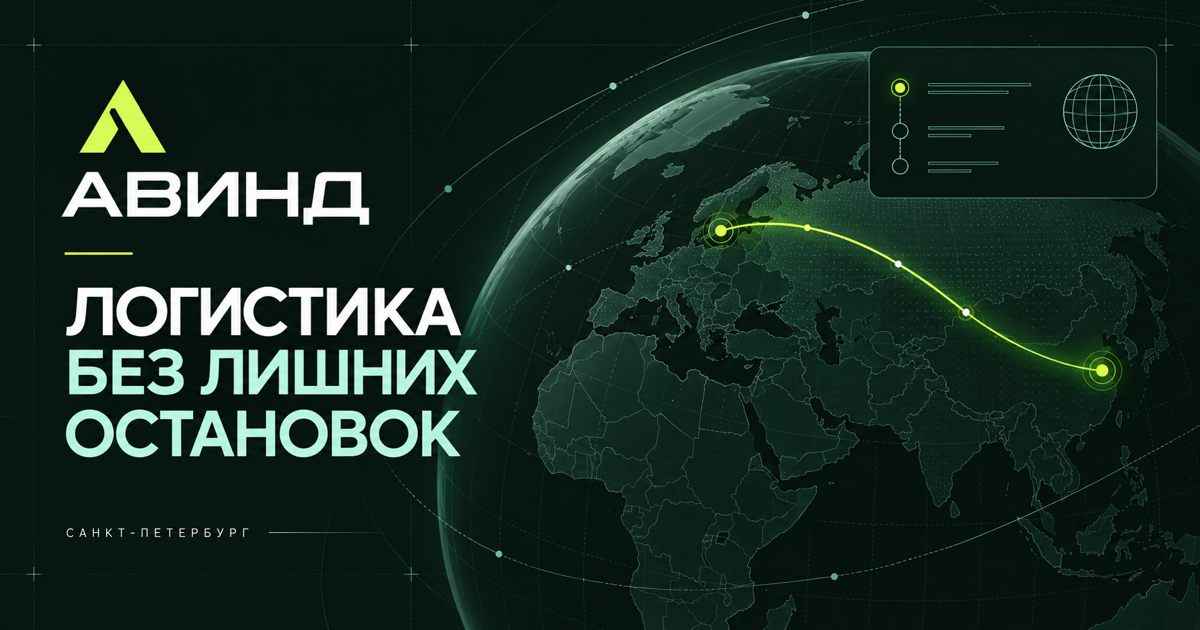
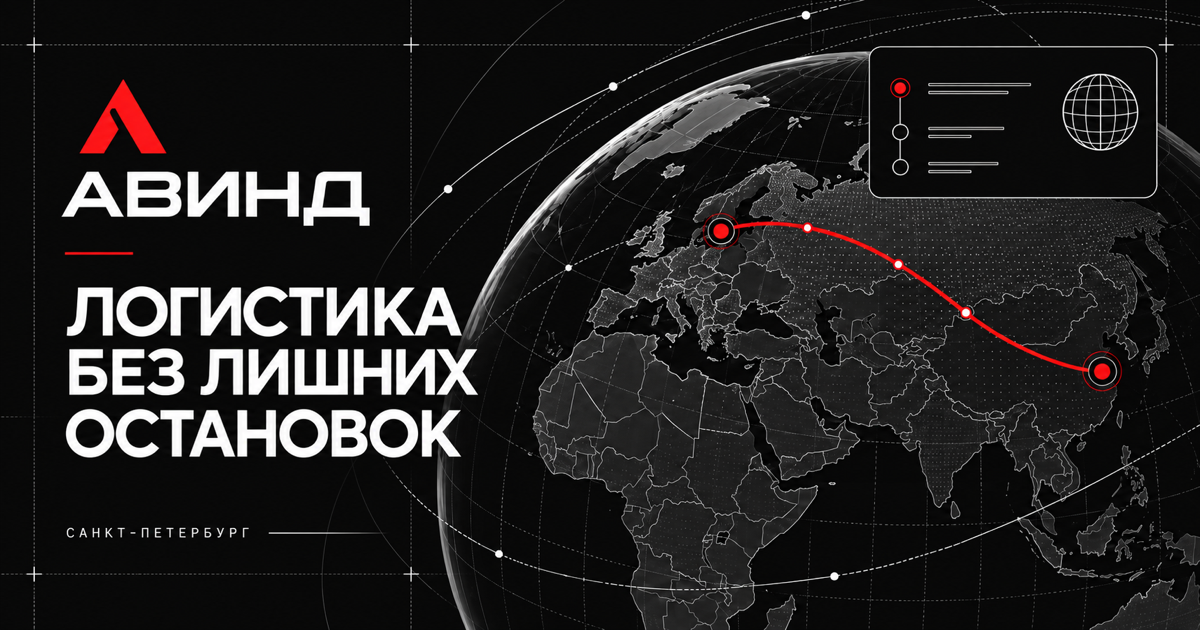
Add files via upload

diff --git a/styles.css b/styles.css
@@ -1,5 +1,24 @@
-:root{--ink:#0b1715;--ink-2:#10221f;--paper:#f1f0e9;--paper-2:#e4e3da;--acid:#caff3d;--mint:#a5e6d0;--line:rgba(11,23,21,.16);--white:#fff;--display:Impact,"Arial Narrow",sans-serif;--body:Inter,-apple-system,BlinkMacSystemFont,"Segoe UI",sans-serif}
+:root{--ink:#0a0a0a;--ink-2:#161616;--paper:#f7f7f5;--paper-2:#e7e7e3;--acid:#e11919;--mint:#ff5a52;--line:rgba(10,10,10,.18);--white:#fff;--display:Impact,"Arial Narrow",sans-serif;--body:Inter,-apple-system,BlinkMacSystemFont,"Segoe UI",sans-serif}
 *{box-sizing:border-box}html{scroll-behavior:smooth}body{margin:0;background:var(--paper);color:var(--ink);font-family:var(--body);overflow-x:hidden}body.dialog-open{overflow:hidden}a{color:inherit;text-decoration:none}button,input,select,textarea{font:inherit}.skip-link{position:fixed;left:1rem;top:-5rem;background:var(--acid);padding:.8rem 1rem;z-index:100}.skip-link:focus{top:1rem}.site-header{height:88px;padding:0 clamp(20px,4vw,64px);display:grid;grid-template-columns:1fr auto 1fr;align-items:center;position:absolute;inset:0 0 auto;z-index:20;color:white;border-bottom:1px solid rgba(255,255,255,.14)}.brand{display:grid;grid-template-columns:36px auto;grid-template-rows:auto auto;align-items:center;width:max-content}.brand-mark{grid-row:1/3;width:28px;height:34px;background:var(--acid);clip-path:polygon(50% 0,100% 100%,64% 100%,50% 67%,36% 100%,0 100%);font-size:0}.brand-name{font-weight:850;font-size:1.08rem;letter-spacing:.13em;line-height:1}.brand-place{font-size:.56rem;letter-spacing:.16em;text-transform:uppercase;opacity:.55;margin-top:5px}.desktop-nav{display:flex;gap:clamp(22px,3vw,52px);font-size:.78rem;text-transform:uppercase;letter-spacing:.11em}.desktop-nav a,.header-phone{transition:color .2s}.desktop-nav a:hover,.header-phone:hover{color:var(--acid)}.header-phone{justify-self:end;font-weight:650;font-size:.88rem}.menu-button,.mobile-nav{display:none}.hero{min-height:820px;height:min(930px,100svh);position:relative;background:var(--ink);color:white;padding:clamp(140px,17vh,200px) clamp(20px,4vw,64px) 84px;overflow:hidden;display:grid;grid-template-columns:1.05fr .95fr;gap:2rem;align-items:center}.hero:before{content:"";position:absolute;width:70vw;height:70vw;left:-36vw;top:-28vw;border:1px solid rgba(202,255,61,.12);border-radius:50%}.hero-copy{position:relative;z-index:2;max-width:790px}.eyebrow{display:flex;align-items:center;gap:10px;text-transform:uppercase;letter-spacing:.18em;font-size:.69rem;font-weight:750;margin:0 0 28px}.eyebrow span{width:30px;height:1px;background:var(--acid)}.eyebrow.dark span{background:var(--ink)}.hero h1,.section h2,.cta h2,.quote-dialog h2{font-family:var(--display);font-weight:900;text-transform:uppercase;letter-spacing:-.035em;line-height:.86;margin:0}.hero h1{font-size:clamp(4.4rem,8.3vw,9.2rem)}em{font-style:normal;color:var(--acid)}.hero-lead{font-size:clamp(1rem,1.4vw,1.22rem);line-height:1.55;color:rgba(255,255,255,.66);max-width:630px;margin:32px 0}.hero-actions{display:flex;gap:12px;flex-wrap:wrap}.button{border:0;min-height:56px;padding:0 25px;display:inline-flex;align-items:center;justify-content:center;gap:38px;text-transform:uppercase;letter-spacing:.08em;font-size:.72rem;font-weight:800;cursor:pointer;transition:transform .25s,background .25s,color .25s}.button:hover{transform:translateY(-3px)}.button-primary{background:var(--acid);color:var(--ink)}.button-primary:hover{background:white}.button-ghost{color:white;border:1px solid rgba(255,255,255,.3)}.button-ghost:hover{border-color:white}.button-dark{background:var(--ink);color:white;width:100%}.hero-facts{display:flex;list-style:none;padding:34px 0 0;margin:42px 0 0;border-top:1px solid rgba(255,255,255,.15);gap:clamp(25px,4vw,64px)}.hero-facts li{display:flex;flex-direction:column;gap:5px}.hero-facts strong{text-transform:uppercase;font-size:.88rem}.hero-facts span{font-size:.68rem;color:rgba(255,255,255,.48)}.route-visual{height:min(650px,66vw);min-height:480px;position:relative;border-left:1px solid rgba(255,255,255,.14);overflow:hidden}.visual-grid{position:absolute;inset:0;background-image:linear-gradient(rgba(255,255,255,.045) 1px,transparent 1px),linear-gradient(90deg,rgba(255,255,255,.045) 1px,transparent 1px);background-size:64px 64px;mask-image:linear-gradient(to bottom,transparent,black 15%,black 85%,transparent)}.orbit{position:absolute;border:1px solid rgba(165,230,208,.19);border-radius:50%}.orbit-one{width:520px;height:520px;top:7%;left:13%;animation:spin 30s linear infinite}.orbit-one:after{content:"";width:9px;height:9px;background:var(--acid);border-radius:50%;position:absolute;top:17%;left:8%;box-shadow:0 0 24px var(--acid)}.orbit-two{width:330px;height:330px;top:24%;left:31%;border-style:dashed;animation:spin 24s linear infinite reverse}.route-line{position:absolute;width:66%;height:48%;top:26%;left:17%;border-top:2px solid var(--acid);border-radius:50%;transform:rotate(-12deg)}.route-line:after{content:"";position:absolute;top:-5px;left:0;width:9px;height:9px;background:var(--acid);border-radius:50%;animation:travel 5s ease-in-out infinite}.location{position:absolute;display:grid;grid-template-columns:14px auto;column-gap:10px;align-items:center}.location span{width:8px;height:8px;border:2px solid var(--acid);border-radius:50%;box-shadow:0 0 0 7px rgba(202,255,61,.09)}.location b{font-size:.74rem;text-transform:uppercase;letter-spacing:.08em}.location small{grid-column:2;color:rgba(255,255,255,.42);font-size:.62rem;margin-top:4px}.location-a{left:11%;top:26%}.location-b{right:3%;top:59%}.cargo-card{position:absolute;background:rgba(16,34,31,.84);backdrop-filter:blur(18px);border:1px solid rgba(255,255,255,.15);box-shadow:0 25px 80px rgba(0,0,0,.25)}.cargo-main{width:260px;left:26%;top:43%;padding:24px}.cargo-label{font-size:.61rem;color:var(--acid);text-transform:uppercase;letter-spacing:.12em}.cargo-main strong{display:block;font-size:1.4rem;margin:14px 0 22px}.cargo-progress{height:3px;background:rgba(255,255,255,.12)}.cargo-progress i{display:block;width:62%;height:100%;background:var(--acid)}.cargo-meta{display:flex;justify-content:space-between;margin-top:9px;color:rgba(255,255,255,.52);font-size:.65rem}.cargo-meta b{color:white}.cargo-status{right:3%;top:34%;padding:13px 16px;display:flex;align-items:center;gap:12px}.cargo-status>i{width:8px;height:8px;background:var(--acid);border-radius:50%;box-shadow:0 0 0 6px rgba(202,255,61,.09);animation:pulse 2s infinite}.cargo-status span{display:flex;flex-direction:column}.cargo-status small{font-size:.55rem;color:rgba(255,255,255,.45)}.cargo-status b{font-size:.66rem;margin-top:2px}.visual-caption{position:absolute;right:3%;bottom:4%;font-size:.56rem;letter-spacing:.13em;color:rgba(255,255,255,.3)}.hero-scroll{position:absolute;left:clamp(20px,4vw,64px);bottom:24px;font-size:.61rem;text-transform:uppercase;letter-spacing:.14em;color:rgba(255,255,255,.45);display:flex;align-items:center;gap:10px}.hero-scroll span{display:inline-block;width:4px;height:4px;background:var(--acid);border-radius:50%}.ticker{height:72px;overflow:hidden;background:var(--acid);display:flex;align-items:center}.ticker>div{white-space:nowrap;display:flex;align-items:center;gap:28px;animation:ticker 28s linear infinite}.ticker span{text-transform:uppercase;font-family:var(--display);font-size:1.2rem;letter-spacing:.04em}.ticker i{font-style:normal;font-size:.7rem}.section{padding:clamp(90px,11vw,160px) clamp(20px,4vw,64px)}.section-heading{display:grid;grid-template-columns:1fr 1.5fr 1fr;gap:4vw;align-items:end;margin-bottom:70px}.section h2{font-size:clamp(3.3rem,6vw,7.1rem)}.section-heading>p:last-child,.solutions-intro>p:last-child{color:rgba(11,23,21,.62);line-height:1.65;max-width:420px;margin:0}.service-grid{display:grid;grid-template-columns:repeat(3,1fr);border-top:1px solid var(--line);border-left:1px solid var(--line)}.service-card{min-height:390px;padding:26px;display:flex;flex-direction:column;justify-content:space-between;border-right:1px solid var(--line);border-bottom:1px solid var(--line);position:relative;transition:background .3s,color .3s,transform .3s;overflow:hidden}.service-card:hover{background:var(--ink);color:white;transform:translateY(-4px);z-index:2}.service-number{font-size:.63rem;opacity:.5}.service-symbol{position:absolute;inset:70px 26px auto auto;width:130px;height:94px;opacity:.5;transition:opacity .3s,transform .3s}.service-card:hover .service-symbol{opacity:1;transform:translate(-8px,-4px)}.symbol-road{border-bottom:2px solid currentColor}.symbol-road i{position:absolute;width:12px;height:12px;border:2px solid currentColor;border-radius:50%;bottom:-7px}.symbol-road i:first-child{left:12px}.symbol-road i:last-child{right:12px}.symbol-road:before{content:"";position:absolute;inset:28px 15px 0;border:2px solid currentColor;border-bottom:0;transform:skew(-12deg)}.symbol-sea{border-bottom:8px double currentColor}.symbol-sea:before{content:"";position:absolute;width:90px;height:45px;border:2px solid currentColor;border-top:0;bottom:17px;left:18px;transform:skew(-18deg)}.symbol-sea i{position:absolute;bottom:0;width:5px;height:5px;background:currentColor;border-radius:50%}.symbol-sea i:nth-child(1){left:5px}.symbol-sea i:nth-child(2){left:60px}.symbol-sea i:nth-child(3){right:5px}.symbol-air{font-size:6rem;line-height:1;text-align:center}.symbol-air:before,.symbol-air:after{content:"";position:absolute;width:42px;height:1px;background:currentColor;top:46px}.symbol-air:before{left:0}.symbol-air:after{right:0}.symbol-rail{border:2px solid currentColor;border-radius:50% 50% 8px 8px;width:80px;right:42px}.symbol-rail:before{content:"";position:absolute;inset:28px 16px;border:1px solid currentColor}.symbol-rail i{position:absolute;width:10px;height:10px;background:currentColor;border-radius:50%;bottom:10px}.symbol-rail i:nth-child(1){left:12px}.symbol-rail i:nth-child(2){left:33px}.symbol-rail i:nth-child(3){right:12px}.symbol-box i{display:block;width:86px;height:72px;border:2px solid currentColor;margin:auto;transform:skewY(-10deg)}.symbol-box i:after{content:"";display:block;width:1px;height:100%;background:currentColor;margin:auto}.symbol-terminal i:first-child{display:block;width:110px;height:65px;border:2px solid currentColor;margin-top:20px}.symbol-terminal i:last-child{position:absolute;width:2px;height:94px;background:currentColor;right:8px;top:0}.service-card h3{font-size:1.4rem;margin:0 0 13px}.service-card p{font-size:.83rem;line-height:1.55;opacity:.56;max-width:320px;margin:0;padding-right:35px}.service-card button,.solution-item button{position:absolute;right:24px;bottom:24px;border:0;background:transparent;color:inherit;font-size:1.4rem;cursor:pointer;transition:transform .2s}.service-card button:hover,.solution-item button:hover{transform:rotate(45deg)}.solutions{background:var(--ink);color:white;display:grid;grid-template-columns:.8fr 1.2fr;gap:8vw}.solutions-intro{position:sticky;top:130px;height:max-content}.solutions-intro>p:last-child{color:rgba(255,255,255,.5);margin-top:32px}.solution-list{border-top:1px solid rgba(255,255,255,.16)}.solution-item{position:relative;display:grid;grid-template-columns:55px 1fr;gap:15px;padding:48px 48px 48px 0;border-bottom:1px solid rgba(255,255,255,.16)}.solution-item>span{font-size:.63rem;color:var(--acid)}.solution-item h3{font-size:clamp(1.45rem,2.5vw,2.6rem);margin:0 0 15px}.solution-item p{font-size:.9rem;line-height:1.65;color:rgba(255,255,255,.55);margin:0 0 22px;max-width:680px}.solution-item small{font-size:.62rem;text-transform:uppercase;letter-spacing:.1em;color:var(--mint)}.about-label{display:flex;justify-content:space-between;align-items:start}.about-index{font-size:.65rem;letter-spacing:.12em;color:rgba(11,23,21,.45)}.about-copy{margin:70px 0 90px 20%}.about-copy em{color:rgba(11,23,21,.25)}.about-copy p{max-width:720px;font-size:clamp(1rem,1.45vw,1.25rem);line-height:1.65;color:rgba(11,23,21,.62);margin:35px 0 0}.principles{display:grid;grid-template-columns:repeat(3,1fr);border-top:1px solid var(--line)}.principles article{padding:30px 4vw 10px 0;min-height:190px;border-right:1px solid var(--line);margin-right:4vw}.principles article:last-child{border:0}.principles span{font-size:.62rem;color:rgba(11,23,21,.4)}.principles h3{font-size:1.15rem;margin:38px 0 12px}.principles p{color:rgba(11,23,21,.56);font-size:.8rem;line-height:1.5;max-width:300px}.cta{background:var(--ink-2);color:white;min-height:650px;padding:clamp(90px,10vw,150px) clamp(20px,4vw,64px);display:grid;grid-template-columns:1fr 1fr;gap:8vw;align-items:center;position:relative;overflow:hidden}.cta-orbit{position:absolute;width:700px;height:700px;border:1px solid rgba(202,255,61,.1);border-radius:50%;left:-300px;bottom:-430px}.cta-orbit:after{content:"";position:absolute;width:440px;height:440px;border:1px dashed rgba(202,255,61,.14);border-radius:50%;inset:130px}.cta h2{font-size:clamp(4rem,7.7vw,8rem)}.cta-copy>p:not(.eyebrow){color:rgba(255,255,255,.52);line-height:1.65;max-width:530px;margin:30px 0}.contact-panel{border-top:1px solid rgba(255,255,255,.18)}.contact-panel a{display:grid;grid-template-columns:1fr auto;gap:6px;padding:26px 0;border-bottom:1px solid rgba(255,255,255,.18);transition:padding .2s,color .2s}.contact-panel a:hover{padding-left:12px;color:var(--acid)}.contact-panel small{grid-column:1;font-size:.59rem;text-transform:uppercase;letter-spacing:.13em;opacity:.45}.contact-panel strong{grid-column:1;font-size:clamp(.95rem,1.5vw,1.25rem);font-weight:550}.contact-panel span{grid-column:2;grid-row:1/3;align-self:center;font-size:1.3rem}.site-footer{background:#07100f;color:white;padding:58px clamp(20px,4vw,64px) 24px;display:grid;grid-template-columns:1fr 1fr 1fr;gap:40px}.footer-brand{align-self:start}.footer-company,.footer-links{font-size:.74rem;line-height:1.6;color:rgba(255,255,255,.5)}.footer-company p:first-child{color:white;font-weight:700}.footer-links{display:grid;grid-template-columns:1fr 1fr;gap:11px}.footer-links a:hover{color:var(--acid)}.footer-bottom{grid-column:1/-1;padding-top:24px;margin-top:22px;border-top:1px solid rgba(255,255,255,.12);display:flex;justify-content:space-between;font-size:.62rem;color:rgba(255,255,255,.35)}.quote-dialog{width:min(940px,calc(100% - 30px));max-height:calc(100dvh - 30px);border:0;padding:0;background:var(--paper);color:var(--ink);box-shadow:0 40px 120px rgba(0,0,0,.45);grid-template-columns:.75fr 1.25fr}.quote-dialog[open]{display:grid}.quote-dialog::backdrop{background:rgba(3,10,9,.75);backdrop-filter:blur(7px)}.dialog-intro{background:var(--acid);padding:60px 42px}.dialog-intro h2{font-size:clamp(3rem,5vw,5.2rem)}.dialog-intro p:last-child{font-size:.82rem;line-height:1.6;margin-top:30px}.dialog-close{position:absolute;right:18px;top:14px;border:0;background:none;font-size:2rem;cursor:pointer;z-index:2}.quote-dialog form{padding:52px 42px;display:grid;gap:20px;overflow-y:auto}.quote-dialog label{display:grid;gap:8px;font-size:.65rem;text-transform:uppercase;letter-spacing:.08em;font-weight:750}.quote-dialog input,.quote-dialog select,.quote-dialog textarea{width:100%;border:0;border-bottom:1px solid rgba(11,23,21,.3);background:transparent;padding:11px 0;border-radius:0;outline:none;font-size:.88rem;text-transform:none;letter-spacing:0}.quote-dialog input:focus,.quote-dialog select:focus,.quote-dialog textarea:focus{border-color:var(--ink)}.form-row{display:grid;grid-template-columns:1fr 1fr;gap:24px}.quote-dialog .consent{display:flex;grid-template:none;align-items:flex-start;font-weight:500;text-transform:none;letter-spacing:0;line-height:1.4;color:rgba(11,23,21,.6)}.consent input{width:16px;margin:2px 4px 0 0}.consent a{text-decoration:underline}.toast{position:fixed;right:24px;bottom:24px;background:var(--acid);color:var(--ink);padding:16px 20px;font-size:.75rem;font-weight:700;z-index:100;transform:translateY(120px);transition:transform .35s}.toast.show{transform:translateY(0)}.reveal{opacity:0;transform:translateY(28px);transition:opacity .75s ease,transform .75s ease}.reveal.visible{opacity:1;transform:none}@keyframes spin{to{transform:rotate(360deg)}}@keyframes travel{0%,100%{left:0}50%{left:98%}}@keyframes pulse{50%{box-shadow:0 0 0 12px rgba(202,255,61,0)}}@keyframes ticker{to{transform:translateX(-50%)}}
 @media(max-width:1000px){.desktop-nav,.header-phone{display:none}.site-header{grid-template-columns:1fr auto}.menu-button{display:flex;width:40px;height:40px;border:0;background:transparent;flex-direction:column;gap:7px;align-items:center;justify-content:center}.menu-button span{width:24px;height:1px;background:white;transition:transform .25s}.menu-button[aria-expanded=true] span:first-child{transform:translateY(4px) rotate(45deg)}.menu-button[aria-expanded=true] span:last-child{transform:translateY(-4px) rotate(-45deg)}.mobile-nav{display:flex;position:absolute;left:0;right:0;top:88px;background:var(--ink);padding:24px clamp(20px,4vw,64px) 34px;flex-direction:column;gap:20px;border-bottom:1px solid rgba(255,255,255,.16);transform:translateY(-140%);opacity:0;pointer-events:none;transition:.3s;z-index:-1}.mobile-nav.open{transform:none;opacity:1;pointer-events:auto}.hero{height:auto;grid-template-columns:1fr;padding-top:160px}.route-visual{height:590px;min-height:0;border-left:0;border-top:1px solid rgba(255,255,255,.14)}.hero-scroll{display:none}.section-heading{grid-template-columns:1fr 2fr}.section-heading>p:last-child{grid-column:2}.service-grid{grid-template-columns:repeat(2,1fr)}.solutions{grid-template-columns:1fr}.solutions-intro{position:static}.about-copy{margin-left:8%}.cta{grid-template-columns:1fr}.site-footer{grid-template-columns:1fr 1fr}.footer-links{grid-column:2}.quote-dialog[open]{grid-template-columns:1fr}.dialog-intro{padding:40px}.dialog-intro p:last-child{display:none}}
 @media(max-width:640px){.site-header{height:72px}.brand-place{display:none}.mobile-nav{top:72px}.hero{padding-top:126px;padding-bottom:60px;min-height:0}.hero h1{font-size:clamp(3.75rem,19vw,6rem)}.hero-lead{font-size:.94rem}.button{width:100%}.hero-facts{gap:18px;justify-content:space-between}.hero-facts strong{font-size:.72rem}.hero-facts span{font-size:.57rem}.route-visual{height:450px;margin-top:25px}.orbit-one{width:390px;height:390px;left:0}.orbit-two{width:240px;height:240px;left:24%}.cargo-main{left:15%;width:220px}.location-b{top:70%}.cargo-status{top:25%}.ticker{height:58px}.section{padding:82px 20px}.section-heading{display:block;margin-bottom:45px}.section-heading h2{margin:45px 0 28px}.service-grid{grid-template-columns:1fr}.service-card{min-height:330px}.solutions{padding-left:20px;padding-right:20px}.solution-item{grid-template-columns:36px 1fr;padding-right:34px}.about-copy{margin:55px 0 65px}.principles{grid-template-columns:1fr}.principles article{border-right:0;border-bottom:1px solid var(--line);margin:0;min-height:150px}.cta{padding-left:20px;padding-right:20px}.site-footer{grid-template-columns:1fr}.footer-links{grid-column:auto}.footer-bottom{flex-direction:column;gap:15px}.quote-dialog{width:100%;max-height:100dvh;height:100dvh;margin:0}.quote-dialog[open]{display:block}.dialog-intro{padding:36px 24px 28px}.quote-dialog form{padding:30px 24px}.form-row{grid-template-columns:1fr}.toast{left:12px;right:12px;bottom:12px}.visual-caption{display:none}}
 @media(prefers-reduced-motion:reduce){html{scroll-behavior:auto}*,*:before,*:after{animation-duration:.01ms!important;animation-iteration-count:1!important;transition-duration:.01ms!important}.reveal{opacity:1;transform:none}}
+
+/* Strict black / white / red visual system */
+.skip-link{color:#fff}.site-header{border-bottom-color:rgba(255,255,255,.22)}
+.hero:before{border-color:rgba(225,25,25,.24)}
+.orbit{border-color:rgba(255,255,255,.18)}
+.location span{box-shadow:0 0 0 7px rgba(225,25,25,.12)}
+.cargo-card{background:rgba(10,10,10,.9);border-color:rgba(255,255,255,.22);box-shadow:0 25px 80px rgba(0,0,0,.4)}
+.cargo-status>i{box-shadow:0 0 0 6px rgba(225,25,25,.14)}
+.button-primary{color:#fff}.button-primary:hover{background:#fff;color:#0a0a0a}
+.service-card:hover{transform:none}
+.section-heading>p:last-child,.about-copy p{color:rgba(10,10,10,.62)}
+.about-index{color:rgba(10,10,10,.45)}.about-copy em{color:rgba(10,10,10,.25)}
+.principles span{color:rgba(10,10,10,.4)}.principles p{color:rgba(10,10,10,.56)}
+.cta{background:#0a0a0a}.cta-orbit{border-color:rgba(225,25,25,.18)}.cta-orbit:after{border-color:rgba(225,25,25,.22)}
+.site-footer{background:#000}.quote-dialog::backdrop{background:rgba(0,0,0,.8)}
+.dialog-intro{color:#fff}.dialog-intro .eyebrow.dark span{background:#fff}
+.quote-dialog input,.quote-dialog select,.quote-dialog textarea{border-bottom-color:rgba(10,10,10,.32)}
+.quote-dialog .consent{color:rgba(10,10,10,.62)}.toast{color:#fff}
+@keyframes pulse{50%{box-shadow:0 0 0 12px rgba(225,25,25,0)}}

diff --git a/index.html b/index.html
@@ -3,7 +3,7 @@
 <head>
   <meta charset="utf-8">
   <meta name="viewport" content="width=device-width, initial-scale=1">
-  <meta name="theme-color" content="#0b1715">
+  <meta name="theme-color" content="#0a0a0a">
   <meta name="description" content="АВИНД — международная логистика, таможенное оформление и страхование грузов из Санкт-Петербурга.">
   <meta property="og:title" content="АВИНД — международная логистика">
   <meta property="og:description" content="Доставляем грузы всеми видами транспорта. Профессионально, надёжно, в срок.">
@@ -74,13 +74,6 @@
         <span class="visual-caption">55°45′ N · 37°37′ E</span>
       </div>
       <a class="hero-scroll" href="#services"><span></span> Листайте, чтобы узнать больше</a>
-    </section>
-
-    <section class="ticker" aria-label="Направления работы">
-      <div>
-        <span>Авто</span><i>✦</i><span>Море</span><i>✦</i><span>Авиа</span><i>✦</i><span>Железная дорога</span><i>✦</i><span>Таможня</span><i>✦</i><span>Страхование</span><i>✦</i>
-        <span>Авто</span><i>✦</i><span>Море</span><i>✦</i><span>Авиа</span><i>✦</i><span>Железная дорога</span><i>✦</i><span>Таможня</span><i>✦</i><span>Страхование</span><i>✦</i>
-      </div>
     </section>
 
     <section class="section services" id="services">

diff --git a/privacy.html b/privacy.html
@@ -3,7 +3,7 @@
 <head>
   <meta charset="utf-8">
   <meta name="viewport" content="width=device-width, initial-scale=1">
-  <meta name="theme-color" content="#0b1715">
+  <meta name="theme-color" content="#0a0a0a">
   <title>Политика конфиденциальности — АВИНД</title>
   <link rel="stylesheet" href="styles.css">
   <style>

diff --git a/README.md b/README.md
@@ -1,2 +1,12 @@
-АВИНД — сайт для GitHub Pages
+# АВИНД — сайт для GitHub Pages
 
+Готовый статический сайт без сборки и внешних зависимостей.
+
+## Публикация
+
+1. Загрузите содержимое этой папки в корень репозитория GitHub.
+2. Откройте **Settings → Pages**.
+3. В блоке **Build and deployment** выберите **Deploy from a branch**.
+4. Выберите ветку `main`, папку `/ (root)` и нажмите **Save**.
+
+Главная страница: `index.html`. Форма заявки открывает почтовое приложение с заполненным письмом и не требует сервера.
